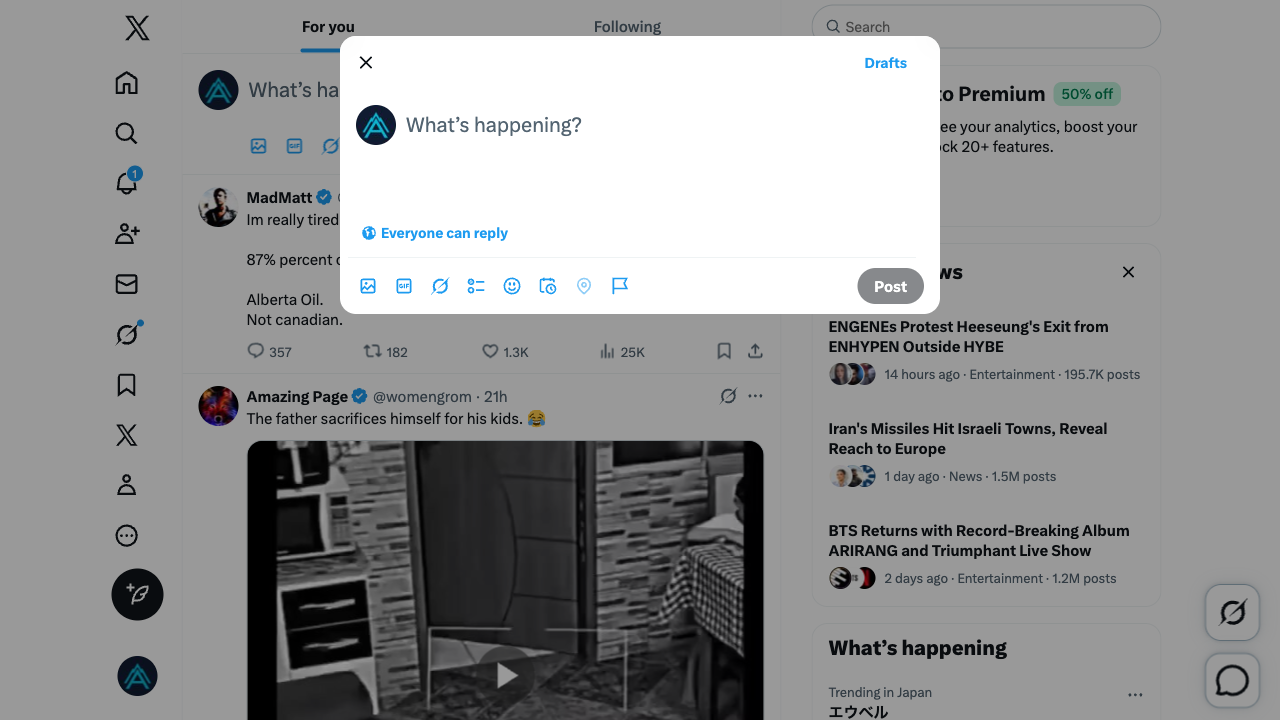
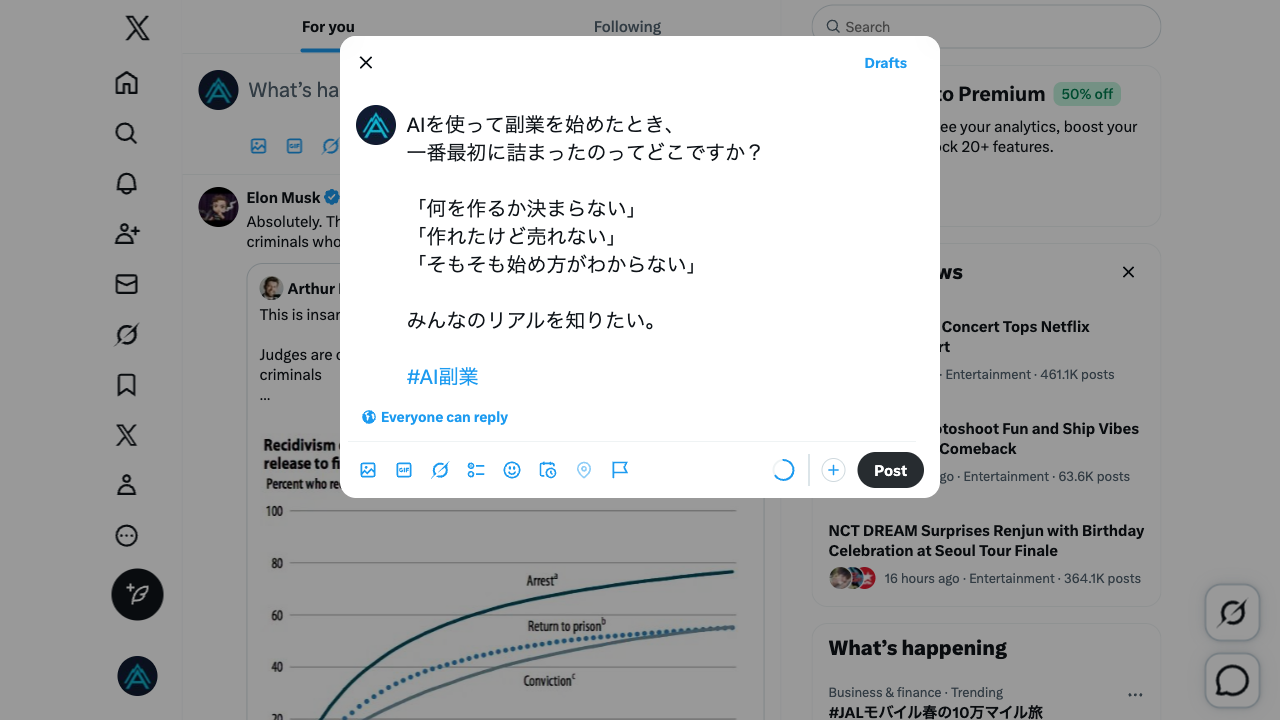
自動保存: 2026-03-23 14:04

diff --git a/projects/monetize/scripts/publish-x.js b/projects/monetize/scripts/publish-x.js
@@ -100,19 +100,35 @@ async function postTweet(page, text) {
   await tweetBox.click({ force: true });
   await page.waitForTimeout(500);
 
-  // macOSシステムクリップボードに書き込んで貼り付け（改行保持のためpbcopy使用）
-  const clipFile = `/tmp/x-clip-${Date.now()}.txt`;
-  fs.writeFileSync(clipFile, text, 'utf-8');
-  execSync(`pbcopy < "${clipFile}"`);
-  try { fs.unlinkSync(clipFile); } catch {}
-  await page.keyboard.press('Meta+v');
-  await page.waitForTimeout(1500);
+  // テキストを1行ずつ入力（Shift+Enterで改行。XのDraft.jsエディタ対応）
+  const lines = text.split('\n');
+  for (let i = 0; i < lines.length; i++) {
+    if (lines[i]) {
+      await page.keyboard.type(lines[i], { delay: 15 });
+    }
+    if (i < lines.length - 1) {
+      await page.keyboard.press('Shift+Enter');
+    }
+  }
+  await page.waitForTimeout(1000);
+
+  // 文字が入力されているか確認してから投稿
+  const tweetBoxContent = await tweetBox.textContent();
+  if (!tweetBoxContent || tweetBoxContent.trim().length === 0) {
+    throw new Error('テキストが入力されませんでした');
+  }
 
   // 投稿ボタンをクリック
   const postBtn = page.locator('[data-testid="tweetButton"]');
   await postBtn.waitFor({ timeout: 10000 });
   await postBtn.click({ force: true });
-  await page.waitForTimeout(3000);
+
+  // 投稿後にモーダルが閉じるまで待機（投稿成功の確認）
+  await page.waitForTimeout(4000);
+  const stillOnCompose = await page.url().includes('compose');
+  if (stillOnCompose) {
+    throw new Error('投稿後もcompose画面のまま。投稿失敗の可能性があります');
+  }
   console.log('✅ 投稿完了！');
 }
 

diff --git a/projects/monetize/scripts/publish-shizuoka-x.js b/projects/monetize/scripts/publish-shizuoka-x.js
@@ -80,18 +80,34 @@ async function postTweet(page, text) {
   await tweetBox.click({ force: true });
   await page.waitForTimeout(500);
 
-  // macOSシステムクリップボードに書き込んで貼り付け（改行保持のためpbcopy使用）
-  const clipFile = `/tmp/x-clip-${Date.now()}.txt`;
-  fs.writeFileSync(clipFile, text, 'utf-8');
-  execSync(`pbcopy < "${clipFile}"`);
-  try { fs.unlinkSync(clipFile); } catch {}
-  await page.keyboard.press('Meta+v');
-  await page.waitForTimeout(1500);
+  // テキストを1行ずつ入力（Shift+Enterで改行。XのDraft.jsエディタ対応）
+  const lines = text.split('\n');
+  for (let i = 0; i < lines.length; i++) {
+    if (lines[i]) {
+      await page.keyboard.type(lines[i], { delay: 15 });
+    }
+    if (i < lines.length - 1) {
+      await page.keyboard.press('Shift+Enter');
+    }
+  }
+  await page.waitForTimeout(1000);
+
+  // 文字が入力されているか確認してから投稿
+  const tweetBoxContent = await tweetBox.textContent();
+  if (!tweetBoxContent || tweetBoxContent.trim().length === 0) {
+    throw new Error('テキストが入力されませんでした');
+  }
 
   const postBtn = page.locator('[data-testid="tweetButton"]');
   await postBtn.waitFor({ timeout: 10000 });
   await postBtn.click({ force: true });
-  await page.waitForTimeout(3000);
+
+  // 投稿後にモーダルが閉じるまで待機（投稿成功の確認）
+  await page.waitForTimeout(4000);
+  const stillOnCompose = await page.url().includes('compose');
+  if (stillOnCompose) {
+    throw new Error('投稿後もcompose画面のまま。投稿失敗の可能性があります');
+  }
   console.log('✅ 投稿完了！');
 }
 

diff --git a/projects/monetize/scripts/publish-tokai-x.js b/projects/monetize/scripts/publish-tokai-x.js
@@ -77,18 +77,34 @@ async function postTweet(page, text) {
   await tweetBox.click({ force: true });
   await page.waitForTimeout(500);
 
-  // macOSシステムクリップボードに書き込んで貼り付け（改行保持のためpbcopy使用）
-  const clipFile = `/tmp/x-clip-${Date.now()}.txt`;
-  fs.writeFileSync(clipFile, text, 'utf-8');
-  execSync(`pbcopy < "${clipFile}"`);
-  try { fs.unlinkSync(clipFile); } catch {}
-  await page.keyboard.press('Meta+v');
-  await page.waitForTimeout(1500);
+  // テキストを1行ずつ入力（Shift+Enterで改行。XのDraft.jsエディタ対応）
+  const lines = text.split('\n');
+  for (let i = 0; i < lines.length; i++) {
+    if (lines[i]) {
+      await page.keyboard.type(lines[i], { delay: 15 });
+    }
+    if (i < lines.length - 1) {
+      await page.keyboard.press('Shift+Enter');
+    }
+  }
+  await page.waitForTimeout(1000);
+
+  // 文字が入力されているか確認してから投稿
+  const tweetBoxContent = await tweetBox.textContent();
+  if (!tweetBoxContent || tweetBoxContent.trim().length === 0) {
+    throw new Error('テキストが入力されませんでした');
+  }
 
   const postBtn = page.locator('[data-testid="tweetButton"]');
   await postBtn.waitFor({ timeout: 10000 });
   await postBtn.click({ force: true });
-  await page.waitForTimeout(3000);
+
+  // 投稿後にモーダルが閉じるまで待機（投稿成功の確認）
+  await page.waitForTimeout(4000);
+  const stillOnCompose = await page.url().includes('compose');
+  if (stillOnCompose) {
+    throw new Error('投稿後もcompose画面のまま。投稿失敗の可能性があります');
+  }
   console.log('✅ 投稿完了！');
 }
 
